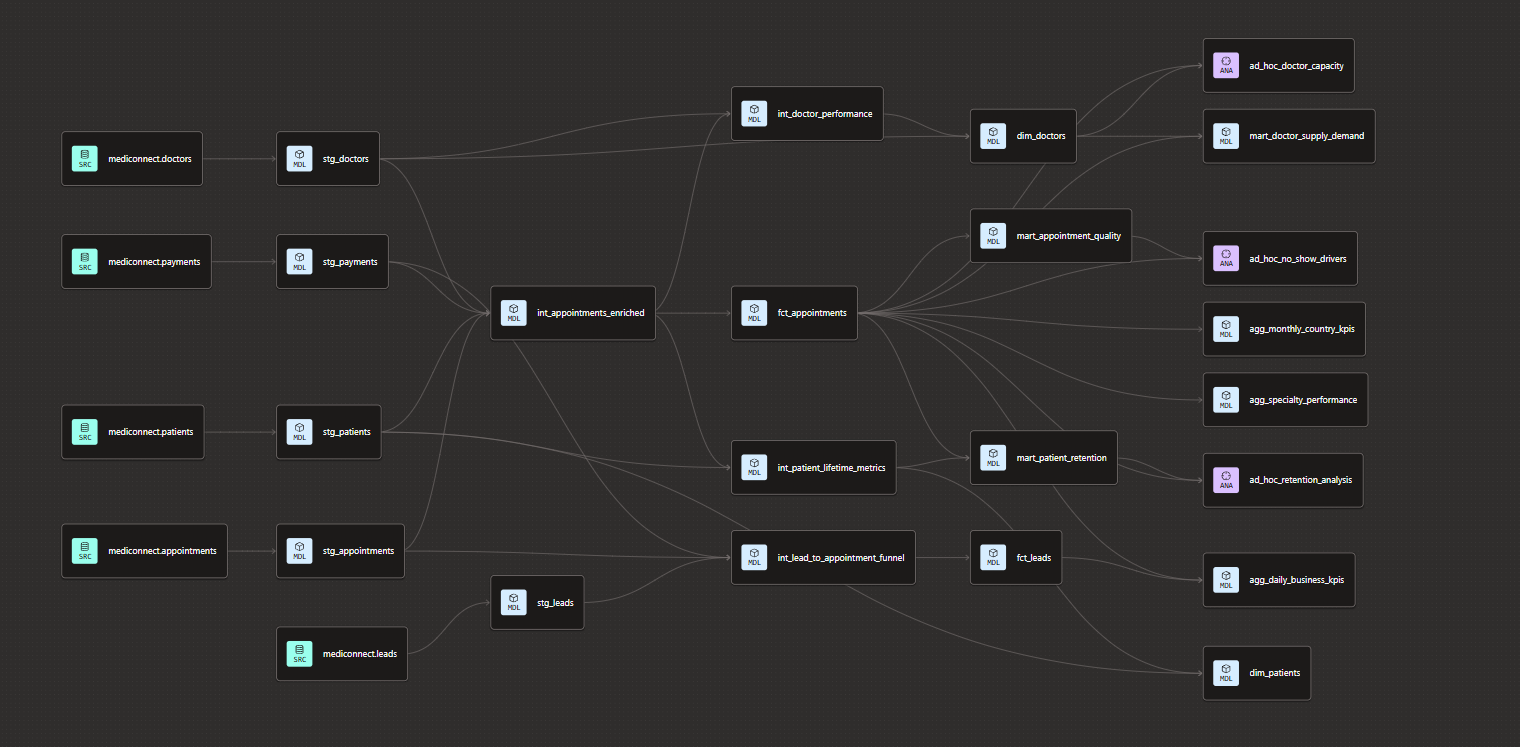
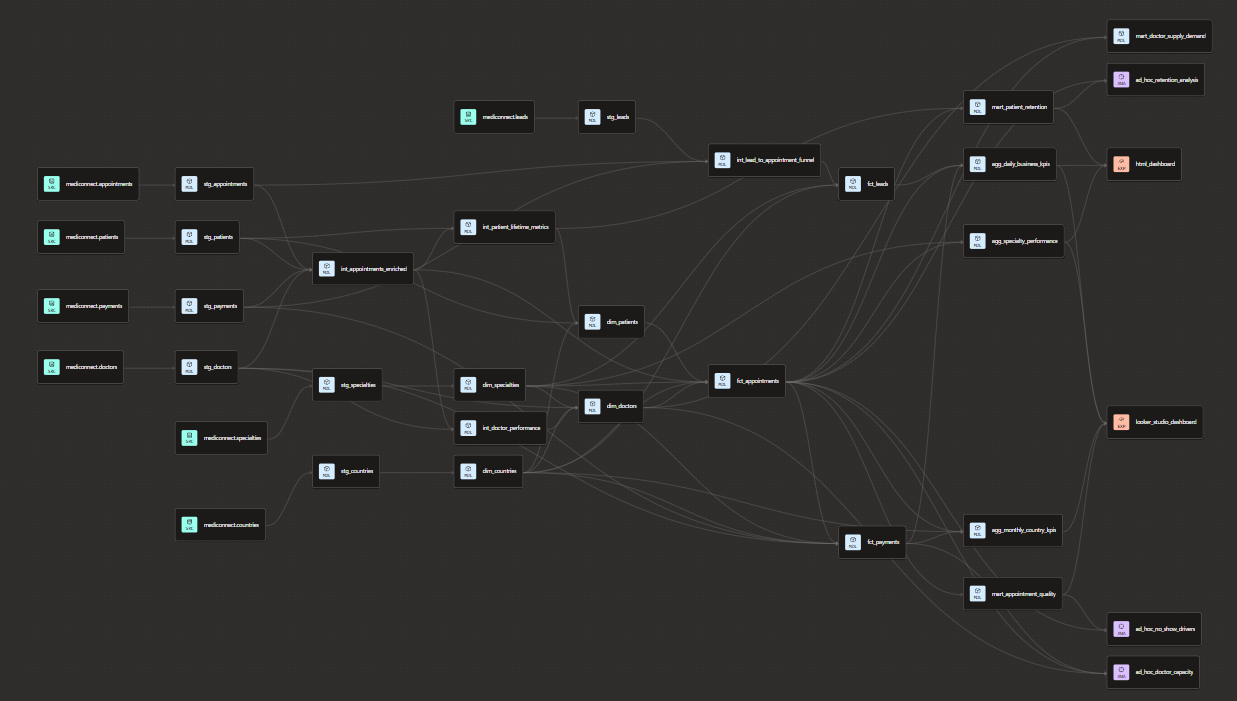
docs(readme): replace dbt lineage diagram with the correct DAG
The previous image did not reflect the real project lineage; it was
missing the countries/specialties dimensions and parts of the graph.
Updated to the complete model lineage and added a clarifying caption.

diff --git a/README.md b/README.md
@@ -117,6 +117,8 @@ dim_patients    ─┘             │
 
 ![dbt DAG](assets/dbt_dag.png)
 
+_Full model lineage. Generic and singular tests are omitted for clarity; the `snap_doctors` and `snap_patients` snapshots have no downstream dependencies and are not shown._
+
 ---
 
 ## Technical Evidence